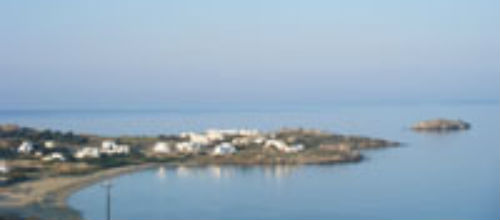
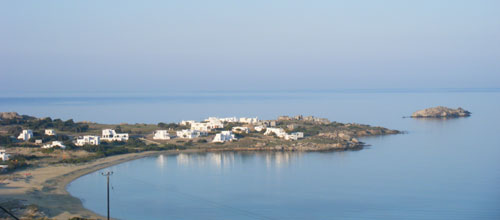
Updated blurred photo and replaced another. Updated text on local-area.html and added statcounter code to all html pages.

diff --git a/local-area.html b/local-area.html
@@ -59,7 +59,7 @@
       	<p><a href="http://www.flisvos-kitecentre.com/" title="Flisvos Kite Centre">Flisvos</a> and <a href="http://www.naxos-windsurf.com/" title="Thalasea Sports">Thalasea Sports</a> have a Wind/Kite Surfing Centre there. The village of Mikri Vigla is set around a headland (Mikri Vigla means look out).  It has about seven tavernas and two supermarkets. It has another beach to the south of the headland which is effectively the north of Kastraki beach. It is sheltered when a breeze is blowing on Parthenos beach. It has an excellent taverna on the beach.</p>
       	
       	<h3>Plaka Beach</h3>
-      	<p>Plaka Beach stretches some four kilometres from Aghia Anna to Orkos. It is backed by various restaurants, accomodation and a campsite near Aghia Anna. It is a beautiful beach and rarely feels too crowded, even in August. Behind it is the fertile Plaka valley with a network of fields, the small chapel of Aghia Matteus and the remains of a Hellenistic tower. A dirt road goes along the valley from Orkos and joins Plaka Beach halfway along. It then follows the beach to Aghia Anna.</p>
+      	<p>Plaka Beach stretches some four kilometres from Aghia Anna to Orkos. It is backed by various restaurants, accomodation and a campsite near Aghia Anna. It is a beautiful beach and rarely feels too crowded, even in August. Behind it is the fertile Plaka valley with a network of fields, the small chapel of Aghia Matteus and the remains of a Hellenistic tower. A dirt road goes along the valley from Orkos and then joins a fast road to town.</p>
       	<ul class="small-block-grid-2" data-clearing>
           <li><a href="img/plaka1.jpg" class="th"><img src="img/plaka1-th.jpg"></a></li>
           <li><a href="img/plaka2.jpg" class="th"><img src="img/plaka2-th.jpg"></a></li>
@@ -94,5 +94,16 @@
     <script>
       $(document).foundation();
     </script>
+    <!-- Start of StatCounter Code -->
+    <script type="text/javascript">
+    sc_project=3519490; 
+    sc_invisible=1; 
+    sc_partition=32; 
+    sc_security="7804a22d"; 
+    </script>
+
+    <script type="text/javascript" src="http://www.statcounter.com/counter/counter.js"></script><noscript><div class="statcounter"><a href="http://www.statcounter.com/" target="_blank"><img class="statcounter" src="http://c33.statcounter.com/3519490/0/7804a22d/1/" alt="counter statistics" ></a></div></noscript>
+    <!-- End of StatCounter Code -->
+
   </body>
 </html>

diff --git a/index.html b/index.html
@@ -107,5 +107,16 @@
     <script>
       $(document).foundation();
     </script>
+    <!-- Start of StatCounter Code -->
+    <script type="text/javascript">
+    sc_project=3519490; 
+    sc_invisible=1; 
+    sc_partition=32; 
+    sc_security="7804a22d"; 
+    </script>
+
+    <script type="text/javascript" src="http://www.statcounter.com/counter/counter.js"></script><noscript><div class="statcounter"><a href="http://www.statcounter.com/" target="_blank"><img class="statcounter" src="http://c33.statcounter.com/3519490/0/7804a22d/1/" alt="counter statistics" ></a></div></noscript>
+    <!-- End of StatCounter Code -->
+    
   </body>
 </html>

diff --git a/booking.html b/booking.html
@@ -81,5 +81,16 @@
     <script>
       $(document).foundation();
     </script>
+    <!-- Start of StatCounter Code -->
+    <script type="text/javascript">
+    sc_project=3519490; 
+    sc_invisible=1; 
+    sc_partition=32; 
+    sc_security="7804a22d"; 
+    </script>
+
+    <script type="text/javascript" src="http://www.statcounter.com/counter/counter.js"></script><noscript><div class="statcounter"><a href="http://www.statcounter.com/" target="_blank"><img class="statcounter" src="http://c33.statcounter.com/3519490/0/7804a22d/1/" alt="counter statistics" ></a></div></noscript>
+    <!-- End of StatCounter Code -->
+    
   </body>
 </html>

diff --git a/videos.html b/videos.html
@@ -101,5 +101,16 @@
     <script>
       $(document).foundation();
     </script>
+    <!-- Start of StatCounter Code -->
+    <script type="text/javascript">
+    sc_project=3519490; 
+    sc_invisible=1; 
+    sc_partition=32; 
+    sc_security="7804a22d"; 
+    </script>
+
+    <script type="text/javascript" src="http://www.statcounter.com/counter/counter.js"></script><noscript><div class="statcounter"><a href="http://www.statcounter.com/" target="_blank"><img class="statcounter" src="http://c33.statcounter.com/3519490/0/7804a22d/1/" alt="counter statistics" ></a></div></noscript>
+    <!-- End of StatCounter Code -->
+
   </body>
 </html>
